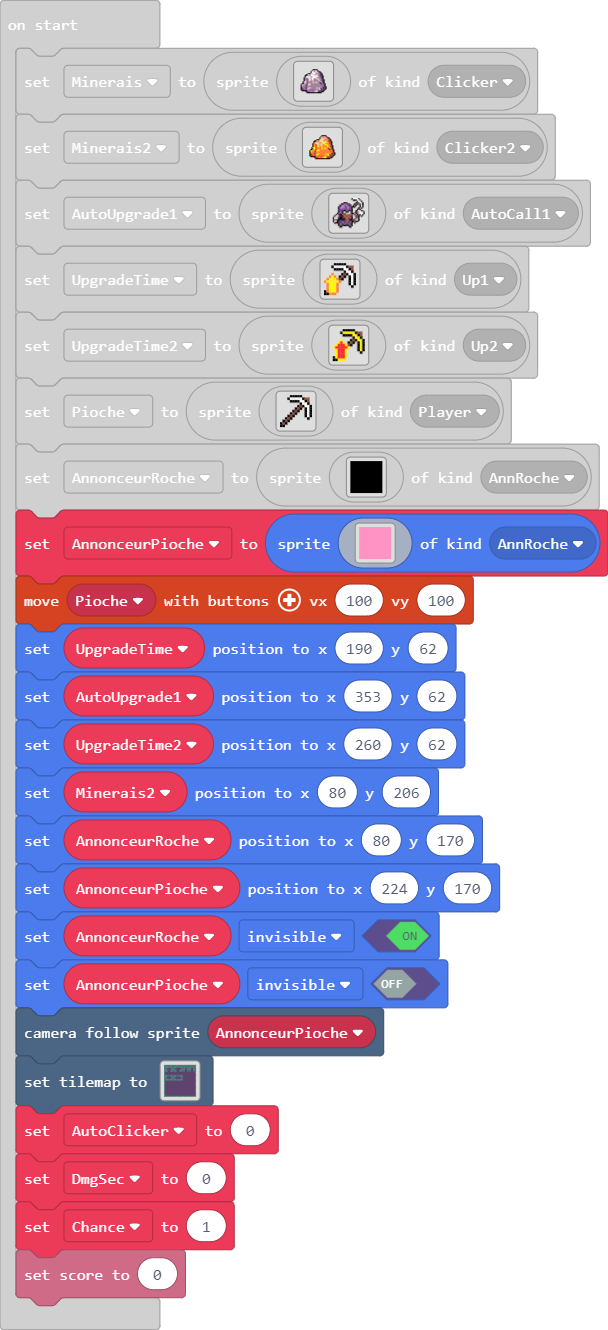
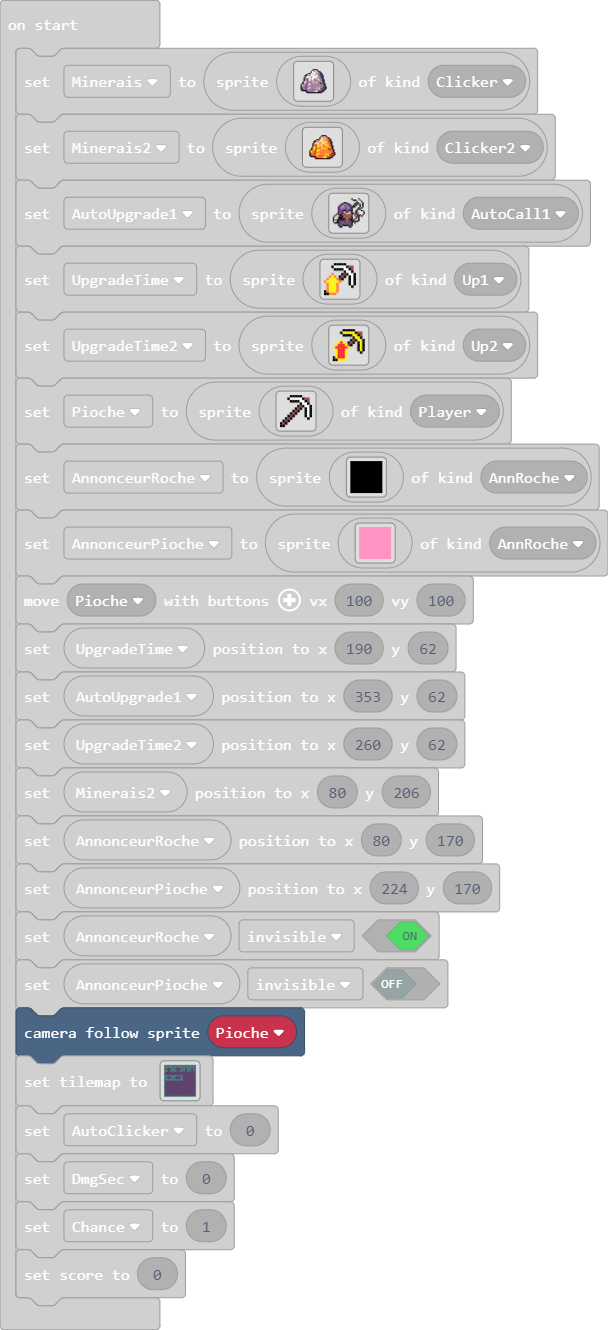
Update main.blocks, main.ts

diff --git a/main.ts b/main.ts
@@ -589,7 +589,7 @@ AnnonceurRoche.setPosition(80, 170)
 AnnonceurPioche.setPosition(224, 170)
 AnnonceurRoche.setFlag(SpriteFlag.Invisible, true)
 AnnonceurPioche.setFlag(SpriteFlag.Invisible, false)
-scene.cameraFollowSprite(AnnonceurPioche)
+scene.cameraFollowSprite(Pioche)
 tiles.setTilemap(tiles.createTilemap(
[1 lines of base64/hex data omitted]
             img`
